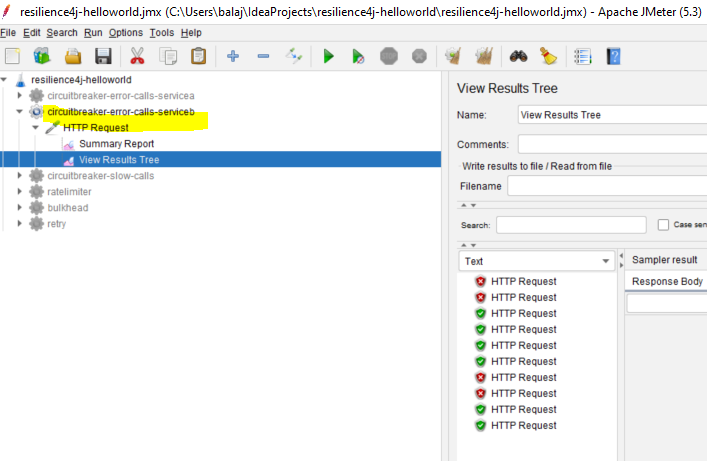
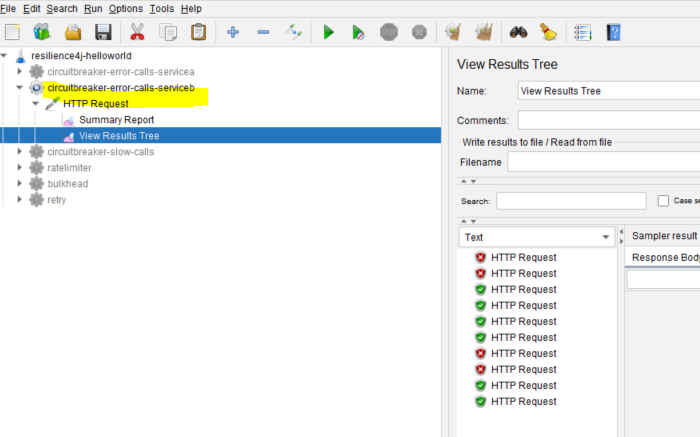
updated readme for cb

Changed region(s): [[0.0, 0.0, 1.0, 0.9519]]

diff --git a/circuitbreaker-error-calls/README.md b/circuitbreaker-error-calls/README.md
@@ -42,7 +42,7 @@ a cache.
 - JMeter Script is provided to generate call.
 - Import **resilience4j-helloworld.jmx** and run **circuitbreaker-error-calls-serviceb** thread group.
 - Observe serviceB will generate 50% of errors
-- ![jmeter](jmeter.png "jmeter")
+- ![jmeter](jmeterb.png "jmeter")
 - run **circuitbreaker-error-calls-servicea** thread group.
 - Observe serviceA will generate 100% of success even serviceB returns errors, Further more it doesn't makes calls 
 to serviceB until it recovers.
